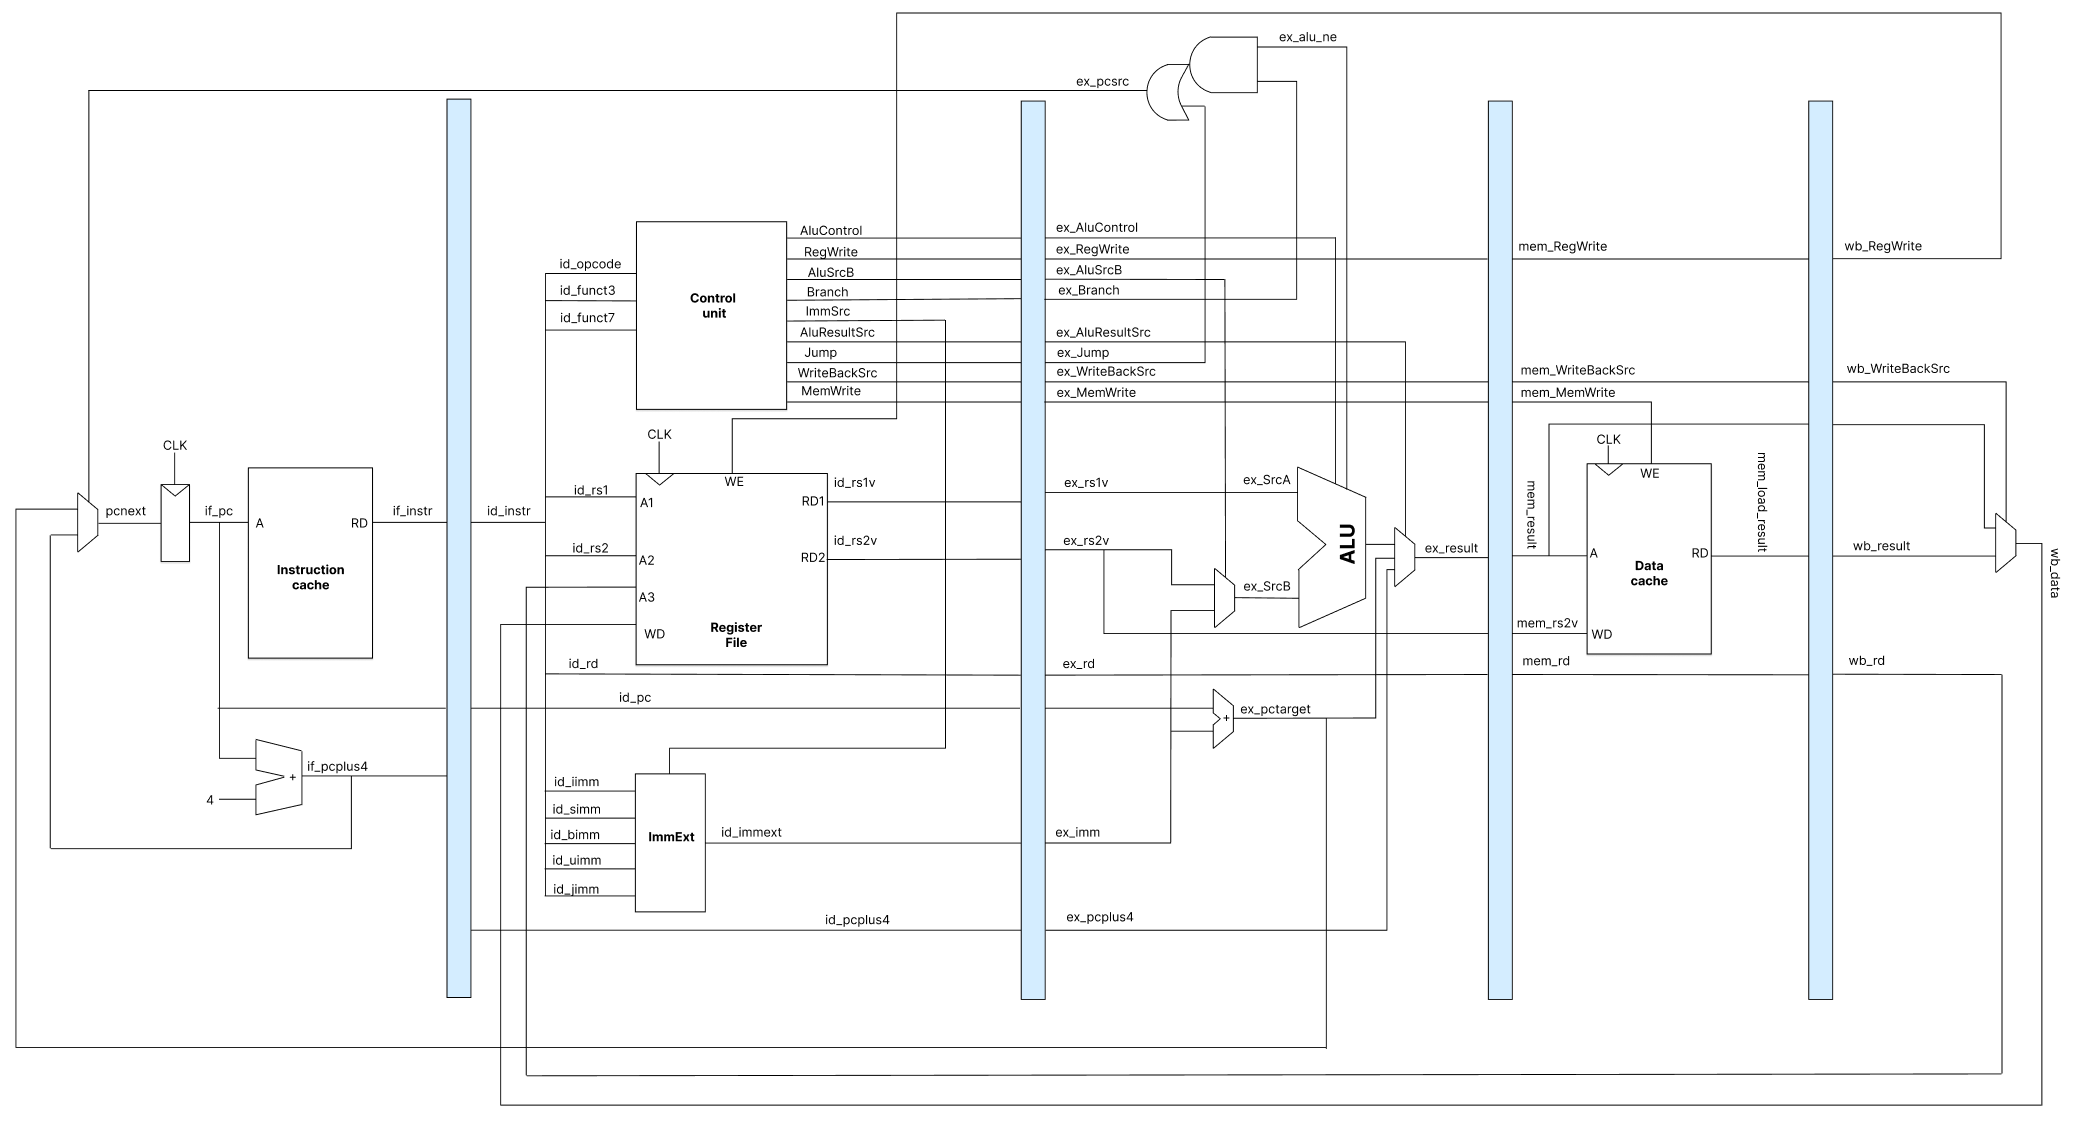
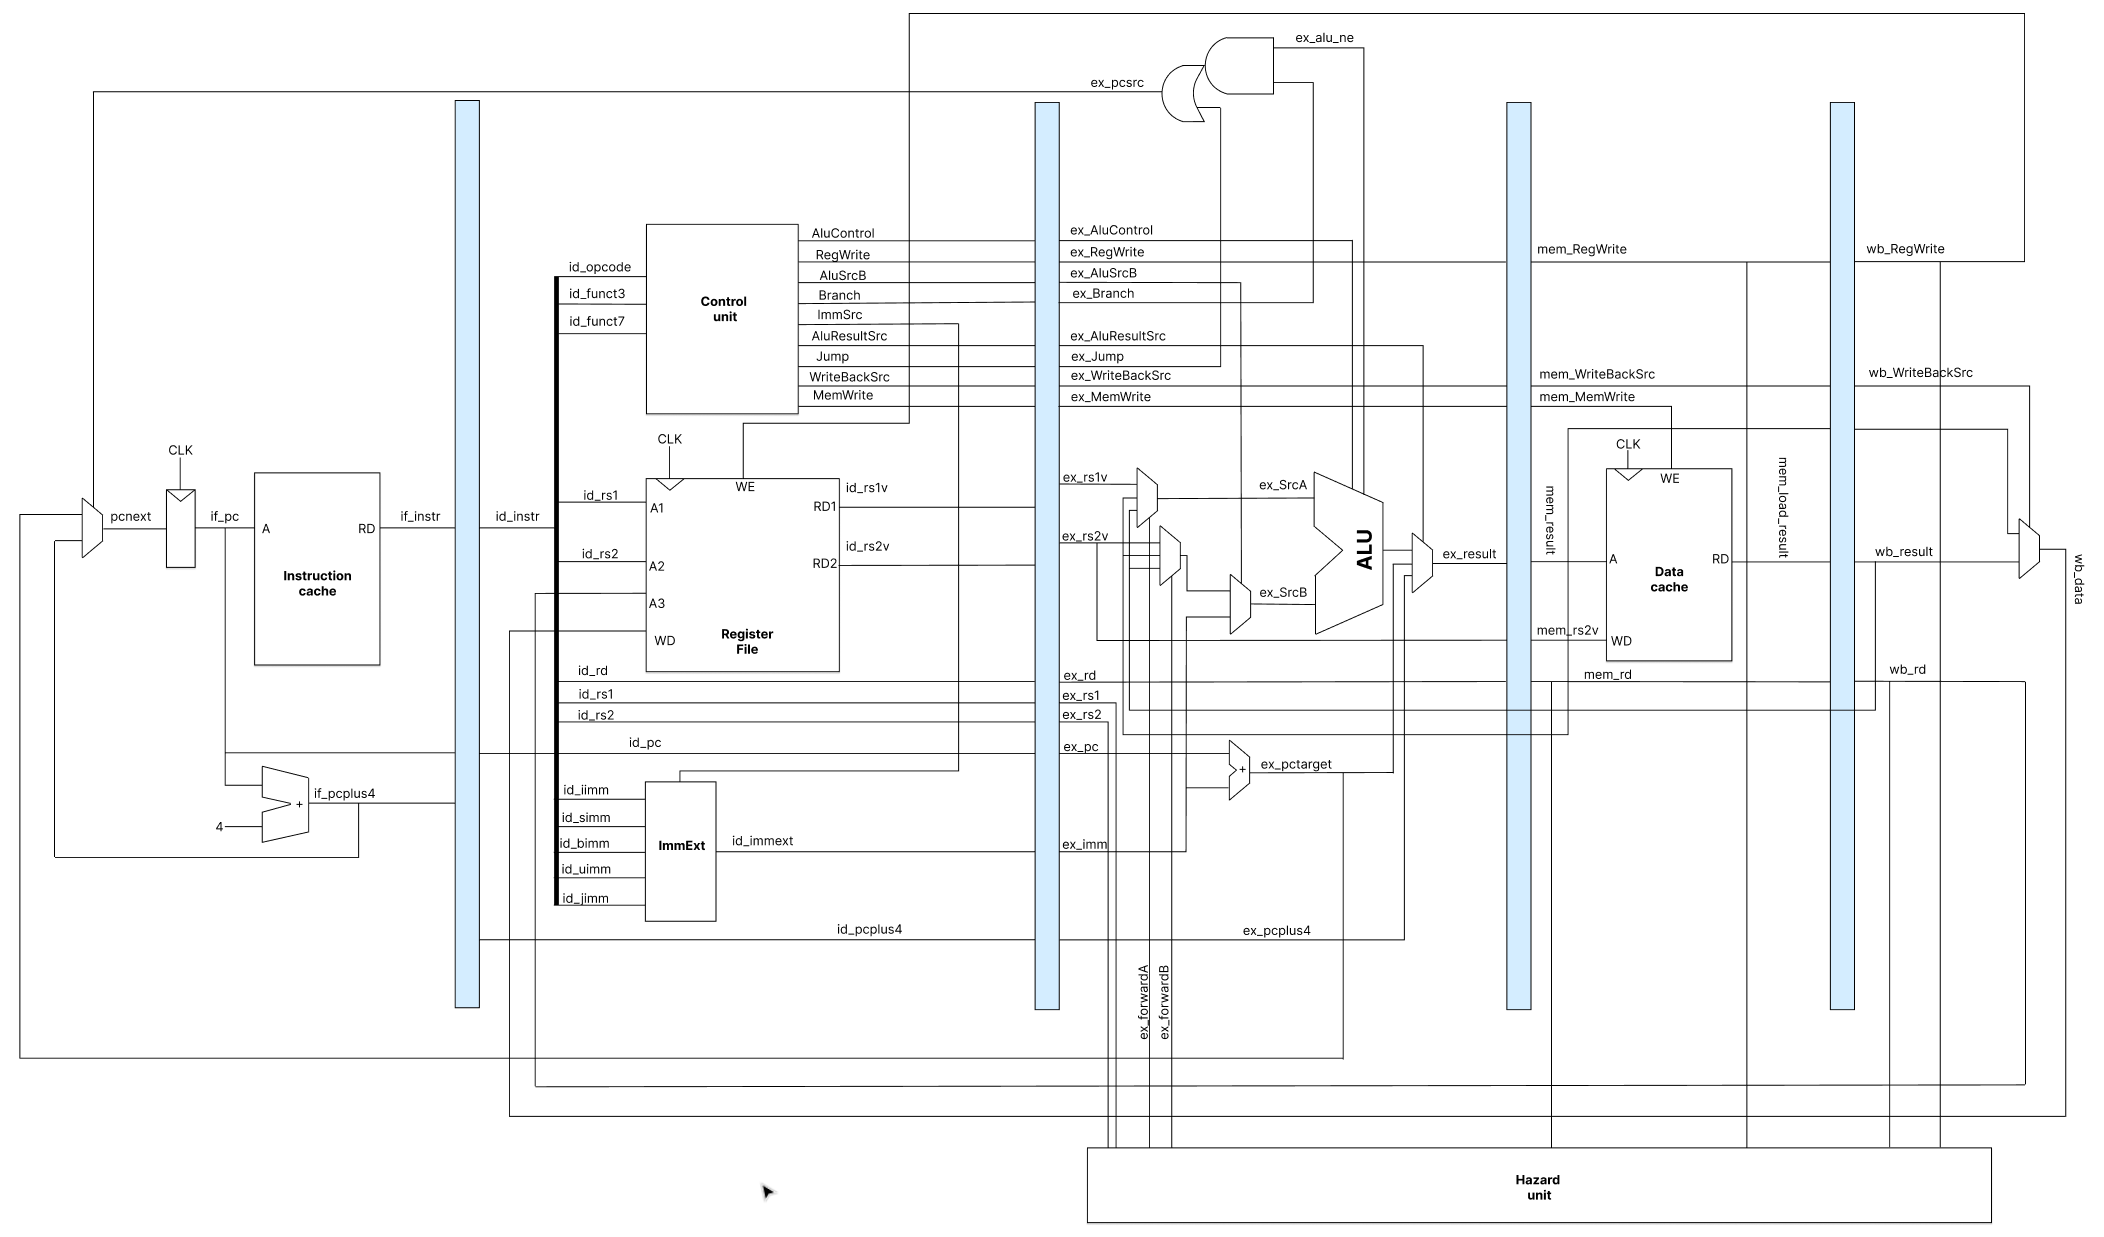
forwarding for RAW hazards

diff --git a/processor/README.md b/processor/README.md
@@ -5,3 +5,5 @@
 
 5-stage pipelined 64-bit RISC-V soft core
 - Supported instructions: add, sub, sll, xor, or, and, bne, lui, auipc, jal, ld, sd
+- Forwarding for RAW hazards
+
